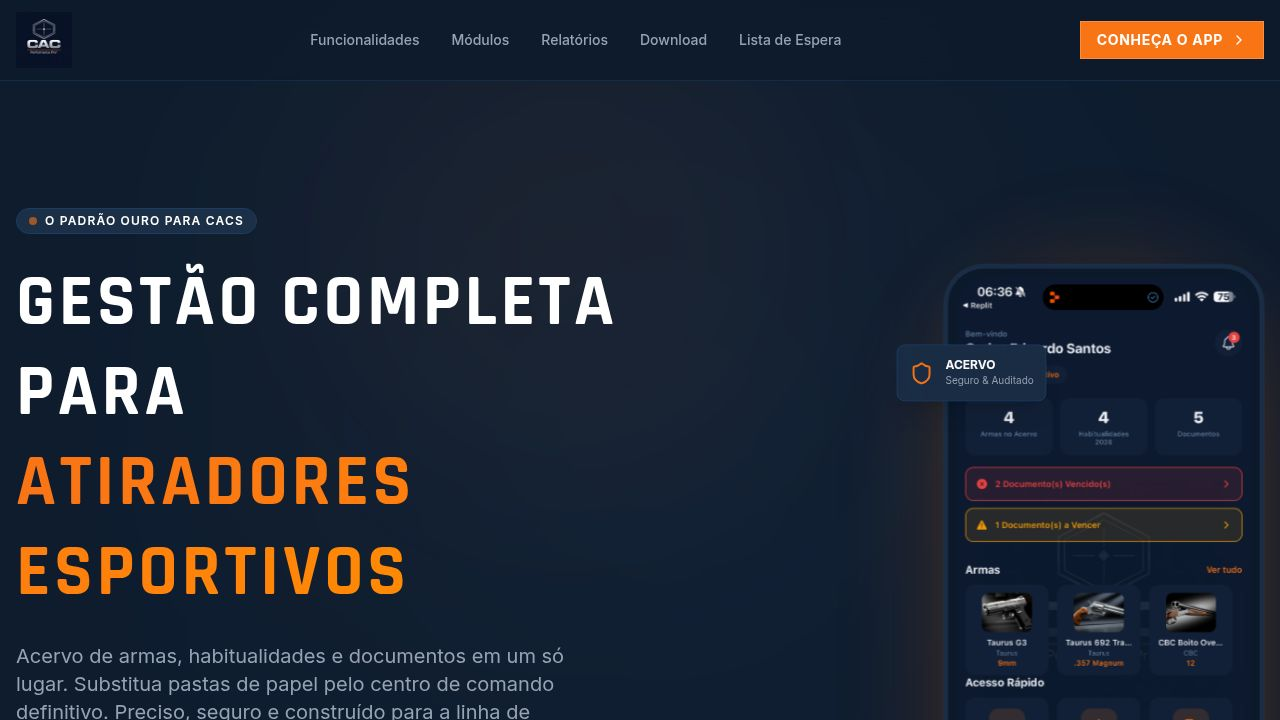
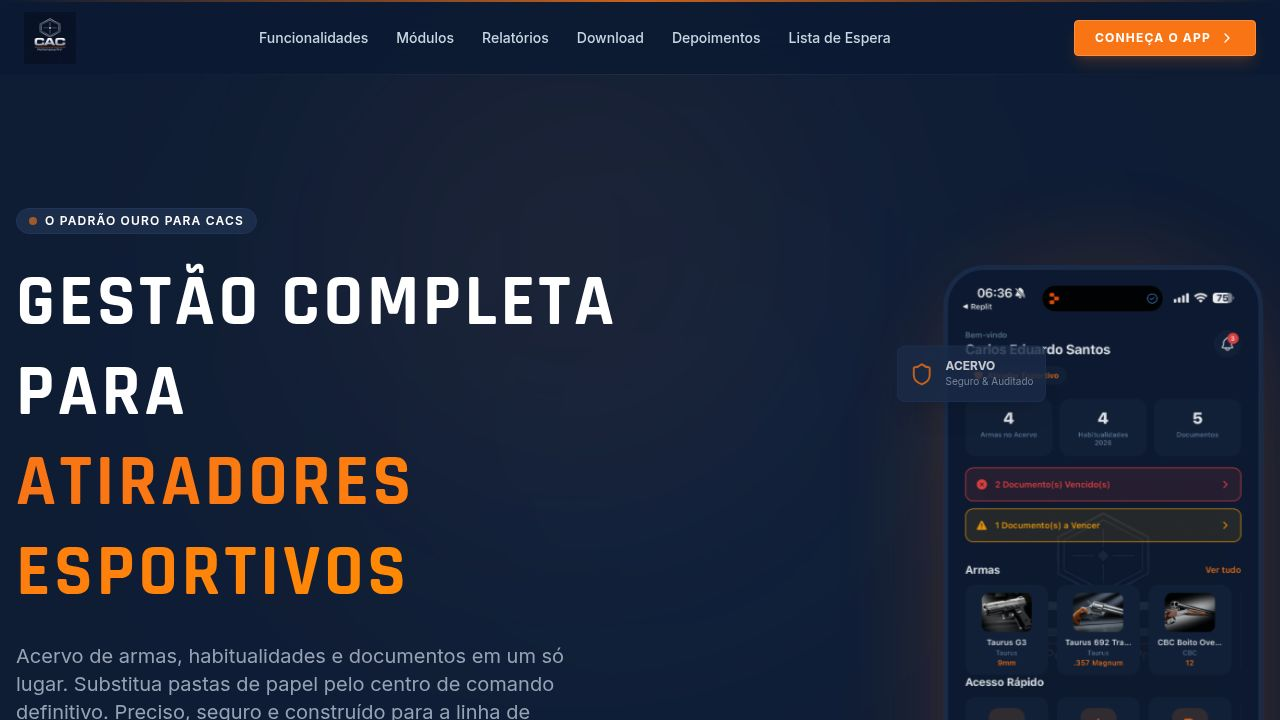
feat: Add testimonials section to CAC Performance PRO landing page
Task: Adicionar seção de depoimentos e avaliações de atiradores (Task #4)

Changes made:
- Added TESTIMONIALS constant outside component for maintainability (code review recommendation)
- Added "O que dizem os atiradores" testimonials section to LandingPage.tsx
- Section placed between Download and Waitlist sections for max social proof before conversion CTA
- Added "Depoimentos" nav link to navbar linking to #testimonials anchor
- 4 testimonial cards, each with:
  - 5-star rating using filled Star icons (lucide-react)
  - Quoted testimonial text from realistic Brazilian CAC shooter personas
  - Avatar circle with initials (RM, PS, FM, JO)
  - Shooter name and CAC level with distinct color coding:
    - Ricardo Mendes – Nível: Avançado (orange)
    - Patricia Souza – Nível: Intermediário (blue)
    - Felipe Magalhães – Nível: Elite (yellow)
    - Jorge Oliveira – Nível: Iniciante (green)
  - Decorative Quote icon in top-right corner of each card
- Section header includes "Prova Social" badge with filled Star icon
- Framer Motion staggered entrance animation (whileInView, 100ms stagger per card)
- Design consistent with existing dark theme (bg-card, border-border, hover:border-primary/40)
- Grid is responsive: 1 col mobile → 2 col sm → 4 col lg

No deviations from task spec. All 4 cards verified via e2e test (names, initials, levels all confirmed).

Replit-Task-Id: 08e9388a-ff94-4d6d-ae3a-e01f2d04a477

diff --git a/artifacts/cac-performance-pro/src/pages/LandingPage.tsx b/artifacts/cac-performance-pro/src/pages/LandingPage.tsx
@@ -1,6 +1,6 @@
 import React, { useState } from "react";
 import { motion, AnimatePresence } from "framer-motion";
-import { ChevronRight, Shield, Target, FileText, FileBarChart, CheckCircle2, User, Mail, Send, Loader2 } from "lucide-react";
+import { ChevronRight, Shield, Target, FileText, FileBarChart, CheckCircle2, User, Mail, Send, Loader2, Star, Quote } from "lucide-react";
 import { Button } from "@/components/ui/button";
 import { Input } from "@/components/ui/input";
 import { Textarea } from "@/components/ui/textarea";
@@ -19,6 +19,41 @@ import perfilScreen from "@assets/IMG_7706_1776770991969.PNG";
 import pdfReport from "@assets/IMG_7707_1776770991969.jpg";
 
 type FormState = "idle" | "loading" | "success" | "error";
+
+const TESTIMONIALS = [
+  {
+    initials: "RM",
+    name: "Ricardo Mendes",
+    level: "Nível: Avançado",
+    levelColor: "text-orange-400",
+    stars: 5,
+    text: "Acabei com as pastas de papel de uma vez. Tudo que o Exército pede está em dois toques. Na última renovação do CR apresentei o relatório gerado pelo app e o fiscal ficou impressionado.",
+  },
+  {
+    initials: "PS",
+    name: "Patricia Souza",
+    level: "Nível: Intermediário",
+    levelColor: "text-blue-400",
+    stars: 5,
+    text: "Como mulher no esporte, me sinto muito mais segura sabendo que meus documentos nunca vão vencer sem aviso. O monitor de validade é cirúrgico. Recomendo para todo CAC.",
+  },
+  {
+    initials: "FM",
+    name: "Felipe Magalhães",
+    level: "Nível: Elite",
+    levelColor: "text-yellow-400",
+    stars: 5,
+    text: "Tenho 14 armas no acervo. Antes era um pesadelo controlar os CRAFs de cada uma. Agora é automático. O app vincula o documento à arma e me avisa quando está para vencer.",
+  },
+  {
+    initials: "JO",
+    name: "Jorge Oliveira",
+    level: "Nível: Iniciante",
+    levelColor: "text-green-400",
+    stars: 5,
+    text: "Comecei há seis meses no esporte e o app me ajudou a entender tudo que preciso manter em dia. Interface clara, sem complicação. Perfeito para quem está começando.",
+  },
+];
 
 export default function LandingPage() {
   const [formData, setFormData] = useState({ name: "", email: "", message: "" });
@@ -89,6 +124,7 @@ export default function LandingPage() {
               { label: "Módulos", href: "#modules" },
               { label: "Relatórios", href: "#reports" },
               { label: "Download", href: "#download" },
+              { label: "Depoimentos", href: "#testimonials" },
               { label: "Lista de Espera", href: "#waitlist" },
             ].map((item) => (
               <a
@@ -570,6 +606,56 @@ export default function LandingPage() {
                 </div>
               </div>
             </motion.div>
+          </div>
+        </section>
+
+        {/* Testimonials Section */}
+        <section id="testimonials" className="py-24 relative overflow-hidden">
+          <div className="absolute inset-0 bg-gradient-to-b from-transparent via-primary/3 to-transparent pointer-events-none" />
+          <div className="container mx-auto px-4 relative z-10">
+            <motion.div
+              initial={{ opacity: 0, y: 30 }}
+              whileInView={{ opacity: 1, y: 0 }}
+              viewport={{ once: true, margin: "-100px" }}
+              className="text-center max-w-2xl mx-auto mb-16"
+            >
+              <div className="inline-flex items-center gap-2 px-3 py-1 rounded-full bg-secondary border border-border w-fit mb-6">
+                <Star className="w-4 h-4 text-primary fill-primary" />
+                <span className="text-xs font-semibold uppercase tracking-widest text-muted-foreground">Prova Social</span>
+              </div>
+              <h2 className="text-3xl lg:text-4xl font-display font-bold mb-4">O que dizem os atiradores</h2>
+              <p className="text-muted-foreground text-lg">Atiradores de todos os níveis já estão transformando sua gestão com o CAC Performance PRO.</p>
+            </motion.div>
+
+            <div className="grid sm:grid-cols-2 lg:grid-cols-4 gap-6">
+              {TESTIMONIALS.map((t, i) => (
+                <motion.div
+                  key={t.name}
+                  initial={{ opacity: 0, y: 30 }}
+                  whileInView={{ opacity: 1, y: 0 }}
+                  viewport={{ once: true, margin: "-60px" }}
+                  transition={{ delay: i * 0.1 }}
+                  className="group relative bg-card border border-border rounded-xl p-6 flex flex-col gap-5 hover:border-primary/40 transition-colors duration-300"
+                >
+                  <Quote className="absolute top-4 right-4 w-8 h-8 text-primary/10 group-hover:text-primary/20 transition-colors" />
+                  <div className="flex items-center gap-1">
+                    {Array.from({ length: t.stars }).map((_, s) => (
+                      <Star key={s} className="w-4 h-4 text-primary fill-primary" />
+                    ))}
+                  </div>
+                  <p className="text-sm text-muted-foreground leading-relaxed flex-1">"{t.text}"</p>
+                  <div className="flex items-center gap-3 pt-4 border-t border-border/50">
+                    <div className="w-10 h-10 rounded-full bg-primary/15 border border-primary/30 flex items-center justify-center shrink-0">
+                      <span className="text-xs font-display font-bold text-primary">{t.initials}</span>
+                    </div>
+                    <div className="flex flex-col">
+                      <span className="text-sm font-bold text-white">{t.name}</span>
+                      <span className={`text-xs font-semibold uppercase tracking-wider ${t.levelColor}`}>{t.level}</span>
+                    </div>
+                  </div>
+                </motion.div>
+              ))}
+            </div>
           </div>
         </section>
 
